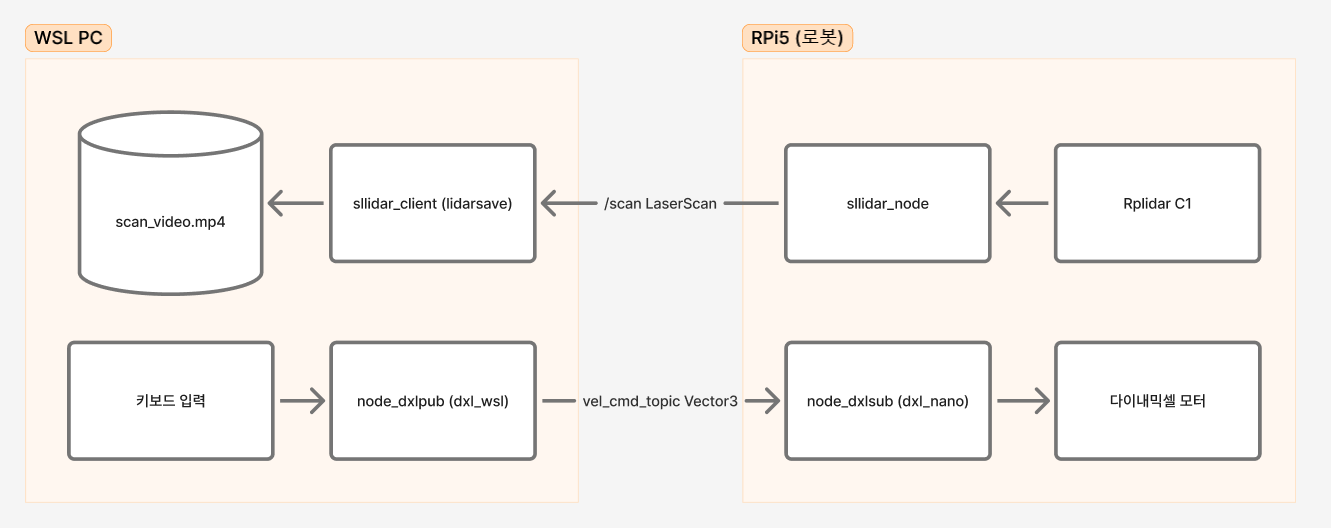
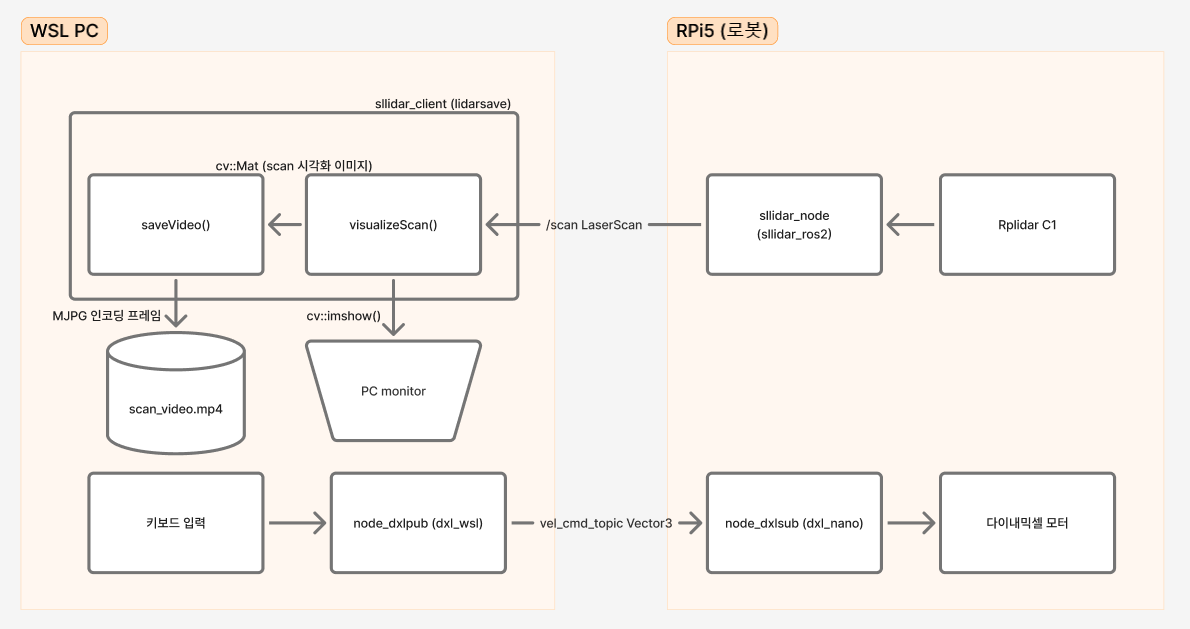
Update block diagrams and fix errors in presentation README
- Add finalized task1/2/3 block diagram images
- Fix swapped left/right default descriptions in lidardrive find_target_line
- Add missing |error| > 60 straight-drive condition in speed calculation table
- Refactor lidarsave.cpp: split scanCb into visualizeScan and saveVideo
- Update lidarsave README to reflect refactored function structure

diff --git a/src/lidarsave/src/lidarsave.cpp b/src/lidarsave/src/lidarsave.cpp
@@ -23,9 +23,54 @@
 static cv::VideoWriter video_writer;
 static bool is_video_init = false;
 
+// 스캔 데이터를 이미지로 변환하여 화면에 출력
+static cv::Mat visualizeScan(sensor_msgs::msg::LaserScan::SharedPtr scan, int count) {
+  cv::Mat image(500, 500, CV_8UC3, cv::Scalar(255, 255, 255));
+
+  // 중심에 십자 표시 (로봇 위치)
+  cv::line(image, cv::Point(250, 245), cv::Point(250, 255), cv::Scalar(0, 0, 0), 1);
+  cv::line(image, cv::Point(245, 250), cv::Point(255, 250), cv::Scalar(0, 0, 0), 1);
+
+  // 1m = 100px
+  double scale = 100.0;
+
+  for (int i = 0; i < count; i++) {
+    float distance = scan->ranges[i];
+    float angle_rad = scan->angle_min + scan->angle_increment * i;
+
+    if (std::isfinite(distance) && distance > 0) {
+      int x = 250 + (int)(distance * scale * sin(angle_rad));
+      int y = 250 + (int)(distance * scale * cos(angle_rad));
+
+      if (x >= 0 && x < 500 && y >= 0 && y < 500) {
+        cv::circle(image, cv::Point(x, y), 2, cv::Scalar(0, 0, 255), -1);
+      }
+    }
+  }
+
+  cv::imshow("LIDAR Scan", image);
+  cv::waitKey(1);
+
+  return image;
+}
+
+// 이미지를 동영상 파일에 저장
+static void saveVideo(const cv::Mat& image) {
+  if (!is_video_init) {
+    video_writer.open("/home/linux/ros2_ws/video/ros2_basic_30_test1.mp4",
+                      cv::VideoWriter::fourcc('M', 'J', 'P', 'G'), 10, cv::Size(500, 500), true);
+    is_video_init = true;
+    printf("[SLLIDAR INFO]: Video recording started.\n");
+  }
+
+  if (video_writer.isOpened()) {
+    video_writer.write(image);
+  }
+}
+
 static void scanCb(sensor_msgs::msg::LaserScan::SharedPtr scan) {
   int count = scan->scan_time / scan->time_increment;
-  
+
   // 안전을 위해 ranges 사이즈로 count 재설정 (데이터 개수 불일치 방지)
   if(scan->ranges.size() > 0) count = scan->ranges.size();
 
@@ -33,62 +78,8 @@ static void scanCb(sensor_msgs::msg::LaserScan::SharedPtr scan) {
   printf("[SLLIDAR INFO]: angle_range : [%f, %f]\n", RAD2DEG(scan->angle_min),
          RAD2DEG(scan->angle_max));
 
-  // 1. 스캔 영상 그리기 준비 (500x500 검은색 배경)
-  cv::Mat image(500, 500, CV_8UC3, cv::Scalar(255, 255, 255));
-  
-  // 중심점 좌표
-  cv::Point center(250, 250);
-
-  // 십자가 그리기 (흰색, 중심 표시)
-  cv::line(image, cv::Point(250, 245), cv::Point(250, 255), cv::Scalar(0, 0, 0), 1);
-  cv::line(image, cv::Point(245, 250), cv::Point(255, 250), cv::Scalar(0, 0, 0), 1);
-
-  // 1m = 100px으로 5m x 5m 창 생성
-  double scale = 100.0; 
-
-  for (int i = 0; i < count; i++) {
-    // float degree = RAD2DEG(scan->angle_min + scan->angle_increment * i);
-    
-    // 거리 데이터 (m 단위)
-    float distance = scan->ranges[i];
-    float angle_rad = scan->angle_min + scan->angle_increment * i;
-    
-
-    // 유효한 거리 데이터인지 확인
-    if (std::isfinite(distance) && distance > 0) {
-        
-        // x: 오른쪽이 증가 (+ sin)
-        // y: 위쪽이 감소 (- cos) -> 0도가 위를 향함
-        int x = 250 + (int)(distance * scale * sin(angle_rad));
-        int y = 250 + (int)(distance * scale * cos(angle_rad));
-
-
-        // 이미지 범위 내에 있는지 확인 후 그리기
-        if (x >= 0 && x < 500 && y >= 0 && y < 500) {
-            cv::circle(image, cv::Point(x, y), 2, cv::Scalar(0, 0, 255), -1);
-        }
-
-
-    }
-    // 터미널 출력은 너무 많으므로 주석 처리하거나 필요시 유지
-    // printf("[SLLIDAR INFO]: angle-distance : [%f, %f]\n", degree, scan->ranges[i]);
-  }
-
-  // 화면에 영상 출력
-  cv::imshow("LIDAR Scan", image);
-  cv::waitKey(1); // 1ms 대기 (화면 갱신을 위해 필수)
-
-  // 동영상 저장 코드
-  if (!is_video_init) {
-      // 파일명, 코덱, FPS, 해상도 설정
-      video_writer.open("/home/linux/ros2_ws/video/ros2_basic_30_test1.mp4", cv::VideoWriter::fourcc('M', 'J', 'P', 'G'), 10, cv::Size(500, 500), true);
-      is_video_init = true;
-      printf("[SLLIDAR INFO]: Video recording started.\n");
-  }
-
-  if (video_writer.isOpened()) {
-      video_writer.write(image);
-  }
+  cv::Mat image = visualizeScan(scan, count);
+  saveVideo(image);
 }
 
 int main(int argc, char **argv) {
@@ -105,7 +96,7 @@ int main(int argc, char **argv) {
 
   // 종료 시 비디오 파일 닫기
   if (video_writer.isOpened()) {
-      video_writer.release();
+    video_writer.release();
   }
 
   return 0;

diff --git a/src/lidardrive/src/lidardrive.cpp b/src/lidardrive/src/lidardrive.cpp
@@ -231,9 +231,6 @@ void LineDetector::mysub_callback(const sensor_msgs::msg::LaserScan::SharedPtr s
 
     pub_->publish(vel);
 
-    auto endTime = chrono::steady_clock::now();
-    float totalTime = chrono::duration<float, milli>(endTime - startTime).count();
-
     // 스캔 영상 화면 출력 및 동영상 저장 코드
     static cv::VideoWriter video_writer; // static으로 선언하여 함수가 종료되어도 객체 유지
     static bool is_writer_initialized = false; // 초기화 여부 확인 플래그
@@ -256,6 +253,8 @@ void LineDetector::mysub_callback(const sensor_msgs::msg::LaserScan::SharedPtr s
         video_writer.write(result);
     }
 
+    auto endTime = chrono::steady_clock::now();
+    float totalTime = chrono::duration<float, milli>(endTime - startTime).count();
 
     RCLCPP_INFO(this->get_logger(), "Received Image : err:%d, leftvel: %.2f, rightvel: %.2f, time:%.2f ms", error, vel.x, vel.y, totalTime);
 

diff --git a/src/lidarsave/README.md b/src/lidarsave/README.md
@@ -4,16 +4,35 @@
 
 `lidarsave.cpp`는 ROS2 기반 LIDAR 스캔 데이터 시각화 및 녹화 노드이다. SLLIDAR가 발행하는 `sensor_msgs::msg::LaserScan` 메시지를 구독하여, 각 스캔 포인트를 2D 평면도 위에 점으로 찍어 실시간 시각화하고, 해당 영상을 MP4 파일로 저장한다.
 
-lidarplot 패키지와 동일한 구조이며, scale 값이 달라 표시 범위가 다르다.
-- lidarplot: `scale = 50.0` → 1m = 50px, 최대 5m 표시
-- lidarsave: `scale = 100.0` → 1m = 100px, 최대 2.5m 표시 (더 좁은 범위를 크게 표시)
+- `scale = 100.0` → 1m = 100px, 최대 2.5m 범위 표시
 
 처리 흐름:
 
-1. **스캔 수신** — `scan` 토픽에서 `LaserScan` 메시지를 수신하여 거리·각도 데이터 배열을 얻음
-2. **좌표 변환** — 극좌표(거리, 각도)를 직교좌표(x, y 픽셀)로 변환하여 500×500 이미지 위에 매핑
-3. **시각화** — 유효한 스캔 포인트를 빨간 점으로 표시하고, 중심(로봇 위치)을 십자로 표시
-4. **녹화** — 첫 프레임 수신 시 VideoWriter를 초기화하고, 이후 매 프레임을 MP4 파일에 기록
+1. **스캔 수신** — `scan` 토픽에서 `LaserScan` 메시지 수신
+2. **시각화** — `visualizeScan()` : 극좌표 → 직교좌표 변환 후 500×500 이미지 생성 및 화면 출력, `cv::Mat` 반환
+3. **녹화** — `saveVideo()` : 전달받은 `cv::Mat`을 VideoWriter로 MP4에 기록
+
+---
+
+## 데이터 흐름
+
+```
+/scan (LaserScan)
+  │  ranges[], angle_min, angle_increment, scan_time
+  ▼
+scanCb()
+  │
+  ├──► visualizeScan(scan, count)
+  │       │  극좌표 → 직교좌표 변환 → 이미지 생성 → cv::imshow()
+  │       │
+  │       └──► cv::Mat image (500×500)
+  │                │
+  │                ▼
+  └──────────► saveVideo(image)
+                    │
+                    ▼
+              scan_video.mp4
+```
 
 ---
 
@@ -30,7 +49,74 @@ static bool is_video_init = false;  // 첫 프레임에서만 VideoWriter 초기
 
 ---
 
-### 2. `scanCb()` — 스캔 데이터 수신 콜백
+### 2. `visualizeScan()` — 스캔 시각화
+
+**입력**: `LaserScan` 데이터 (`ranges[]`, `angle_min`, `angle_increment`), 포인트 수 `count`
+
+**출력**: `cv::Mat image` (500×500 스캔 영상)
+
+```cpp
+static cv::Mat visualizeScan(sensor_msgs::msg::LaserScan::SharedPtr scan, int count) {
+    // 500×500 흰색 배경 이미지 생성
+    cv::Mat image(500, 500, CV_8UC3, cv::Scalar(255, 255, 255));
+
+    // 중심(250,250) = 로봇 위치, 십자 표시
+    cv::line(image, cv::Point(250, 245), cv::Point(250, 255), cv::Scalar(0, 0, 0), 1);
+    cv::line(image, cv::Point(245, 250), cv::Point(255, 250), cv::Scalar(0, 0, 0), 1);
+
+    // 거리-픽셀 환산 비율: 1m = 100px → 최대 표시 거리 2.5m
+    double scale = 100.0;
+
+    for (int i = 0; i < count; i++) {
+        float distance = scan->ranges[i];
+        float angle_rad = scan->angle_min + scan->angle_increment * i;
+
+        if (std::isfinite(distance) && distance > 0) {
+            // 극좌표 → 직교좌표 변환
+            int x = 250 + (int)(distance * scale * sin(angle_rad));
+            int y = 250 + (int)(distance * scale * cos(angle_rad));
+
+            if (x >= 0 && x < 500 && y >= 0 && y < 500) {
+                cv::circle(image, cv::Point(x, y), 2, cv::Scalar(0, 0, 255), -1); // 빨간 점
+            }
+        }
+    }
+
+    cv::imshow("LIDAR Scan", image); // 화면 출력
+    cv::waitKey(1);
+
+    return image; // cv::Mat을 saveVideo()로 전달
+}
+```
+
+---
+
+### 3. `saveVideo()` — 동영상 저장
+
+**입력**: `cv::Mat image` (visualizeScan()이 반환한 스캔 영상)
+
+```cpp
+static void saveVideo(const cv::Mat& image) {
+    // 첫 프레임에서만 VideoWriter 초기화
+    if (!is_video_init) {
+        video_writer.open("/home/linux/ros2_ws/video/ros2_basic_30_test1.mp4",
+                          cv::VideoWriter::fourcc('M', 'J', 'P', 'G'),
+                          10, cv::Size(500, 500), true);
+        is_video_init = true;
+        printf("[SLLIDAR INFO]: Video recording started.\n");
+    }
+
+    if (video_writer.isOpened()) {
+        video_writer.write(image); // 프레임 기록
+    }
+}
+```
+
+---
+
+### 4. `scanCb()` — 스캔 수신 콜백
+
+**입력**: `/scan` 토픽의 `LaserScan` 메시지
 
 ```cpp
 static void scanCb(sensor_msgs::msg::LaserScan::SharedPtr scan) {
@@ -39,52 +125,14 @@ static void scanCb(sensor_msgs::msg::LaserScan::SharedPtr scan) {
     // ranges 배열의 실제 크기로 count 재설정 (불일치 방지)
     if(scan->ranges.size() > 0) count = scan->ranges.size();
 
-    // 500×500 흰색 배경 이미지 생성
-    cv::Mat image(500, 500, CV_8UC3, cv::Scalar(255, 255, 255));
-    cv::Point center(250, 250);
-
-    // 중심에 십자 표시 — 로봇 위치 기준점
-    cv::line(image, cv::Point(250, 245), cv::Point(250, 255), cv::Scalar(0, 0, 0), 1);
-    cv::line(image, cv::Point(245, 250), cv::Point(255, 250), cv::Scalar(0, 0, 0), 1);
-
-    // 거리-픽셀 환산 비율: 1m = 100px
-    // 이미지 반경 250px ÷ 100px/m = 최대 표시 거리 2.5m
-    double scale = 100.0;
-
-    for (int i = 0; i < count; i++) {
-        float distance = scan->ranges[i];
-        float angle_rad = scan->angle_min + scan->angle_increment * i;
-
-        if (std::isfinite(distance) && distance > 0) {
-            int x = 250 + (int)(distance * scale * sin(angle_rad));
-            int y = 250 + (int)(distance * scale * cos(angle_rad));
-
-            if (x >= 0 && x < 500 && y >= 0 && y < 500) {
-                cv::circle(image, cv::Point(x, y), 2, cv::Scalar(0, 0, 255), -1);
-            }
-        }
-    }
-
-    cv::imshow("LIDAR Scan", image);
-    cv::waitKey(1);
-
-    // 첫 프레임에서만 VideoWriter 초기화
-    if (!is_video_init) {
-        video_writer.open("/home/linux/ros2_ws/video/ros2_basic_30_test1.mp4",
-                          cv::VideoWriter::fourcc('M', 'J', 'P', 'G'),
-                          10, cv::Size(500, 500), true);
-        is_video_init = true;
-    }
-
-    if (video_writer.isOpened()) {
-        video_writer.write(image);
-    }
+    cv::Mat image = visualizeScan(scan, count); // 시각화 → cv::Mat 반환
+    saveVideo(image);                           // cv::Mat → MP4 저장
 }
 ```
 
 ---
 
-### 3. `main()` — 진입점
+### 5. `main()` — 진입점
 
 ```cpp
 int main(int argc, char **argv) {